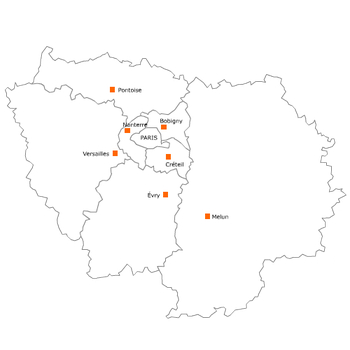
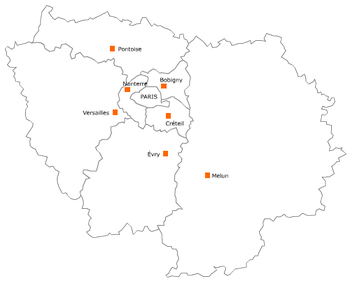
fix map overflow

diff --git a/sass/pages/_map.scss b/sass/pages/_map.scss
@@ -6,8 +6,9 @@
 }
 
 #idf-map {
-  top: -6rem;
+  top: -2rem;
   position: absolute;
   filter: grayscale(100%) brightness(40%) sepia(100%) hue-rotate(50deg) saturate(1000%) contrast(0.8);
   max-width: 95%;
+  z-index: -4;
 }
